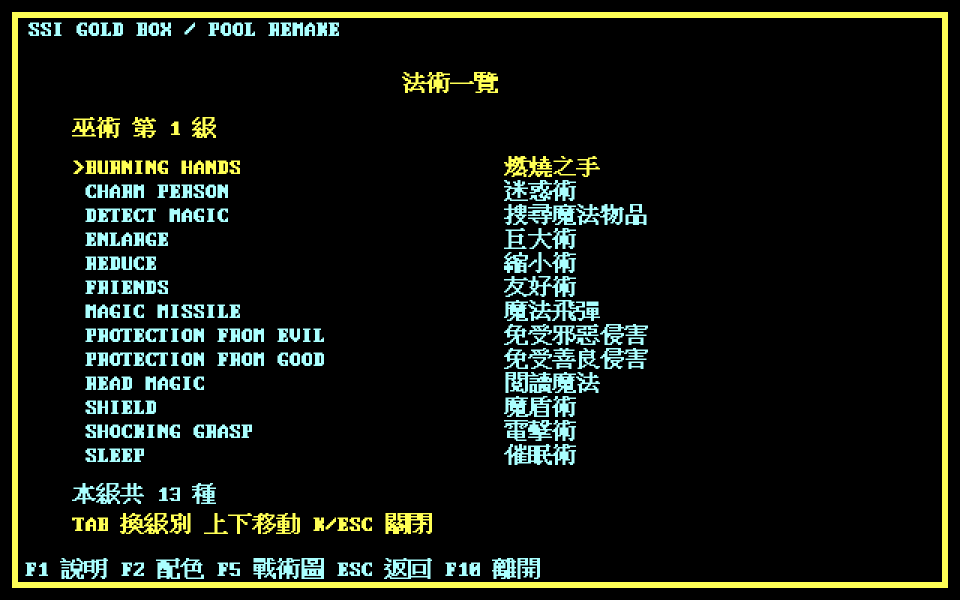
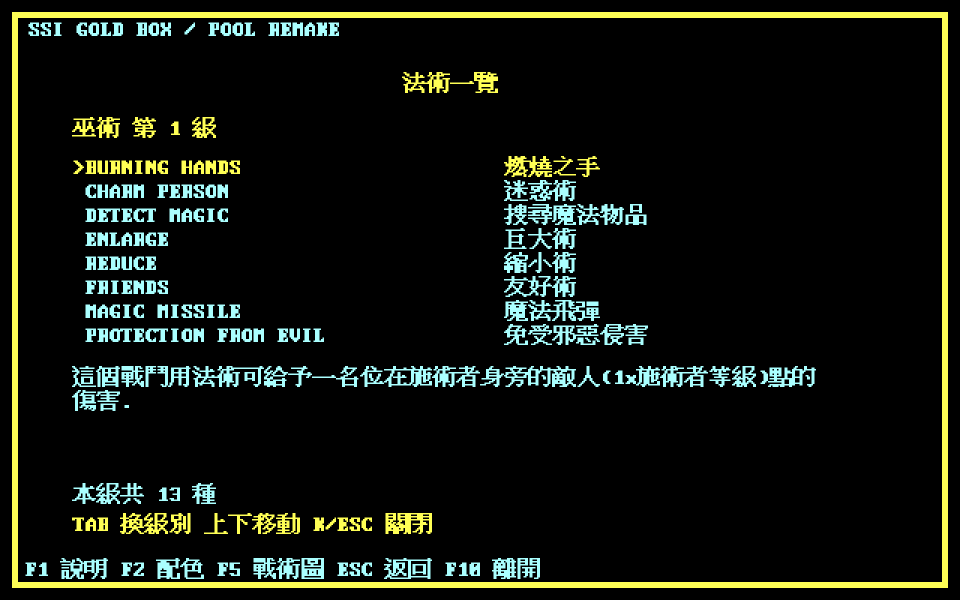
feat: show each spell's documented effect, and fix a hole in the font audit
56 條法術裡有 55 條接上了說明書下冊第六章的說明（逐條轉錄，含說明書自己的
〔原書如此〕註記）。`Restoration` 沒有——它不在法術章，那是神殿服務。
少一條就失敗即關閉：漏掉一條在畫面上看起來只是「這個法術沒寫」。

那是**說明書寫的行為**，不是從反組譯讀出來的規則，程式碼與規格都這樣標著；
接進戰鬥判定之前每一條仍要以原版程式碼驗證。遊戲裡按 K，游標所在那一條的
說明顯示在清單下方。

**順手補掉字型稽核的一個洞。** 「燃燒之手」的說明裡有 `×`，畫面上是一個實心
方塊，但稽核報 0 缺字——因為它的判準是「取不取得到字模格」，而 ETen 的
ASCFONT 對任何 <= 0xFF 的碼位都取得到格子。兩件事一起修：

- 稽核改判「畫出來有沒有東西」，順便排除本來就該空白的空白字元；
- `etenASCIICode` 的身分對應收窄到 0x00..0x7F。ASCFONT 的高半部不是
  Latin-1——那半段在 Big5 是前導位元組，格子畫出來是方塊或雜訊，
  而「畫出方塊」在畫面上與缺字沒有分別。高半部一律走別名表，
  另外把 `×` `÷` `·` `°` `±` 併進去。

Changed region(s): [[0.0625, 0.57, 0.8438, 0.78]]

diff --git a/internal/gamepack/spell_table.go b/internal/gamepack/spell_table.go
@@ -47,13 +47,20 @@ type Spell struct {
 	Text  string     `json:"text"`
 	Class SpellClass `json:"class"`
 	Level int        `json:"level"`
+	// Effect 是說明書下冊第六章對這個法術的說明，逐條轉錄。
+	// 它是**說明書寫的行為**，不是從反組譯讀出來的規則；接進戰鬥判定之前
+	// 仍要逐條以原版程式碼驗證。
+	Effect string `json:"effect,omitempty"`
+	// ManualNote 保留說明書自己的〔原書如此〕註記。
+	ManualNote string `json:"manual_note,omitempty"`
 }
 
 type spellFile struct {
-	Schema  string  `json:"schema"`
-	Locale  string  `json:"locale"`
-	Source  string  `json:"source"`
-	Entries []Spell `json:"entries"`
+	Schema       string  `json:"schema"`
+	Locale       string  `json:"locale"`
+	Source       string  `json:"source"`
+	EffectSource string  `json:"effect_source"`
+	Entries      []Spell `json:"entries"`
 }
 
 // SpellCatalogue 是內建的法術表：遊戲自己的名稱順序，配上說明書的中譯。
@@ -68,8 +75,8 @@ func ParseSpellCatalogue(raw []byte) (*SpellCatalogue, error) {
 	if err := json.Unmarshal(raw, &decoded); err != nil {
 		return nil, fmt.Errorf("Pool spell catalogue: %w", err)
 	}
-	if decoded.Schema != "pool-spell-names/1" {
-		return nil, fmt.Errorf("Pool spell catalogue schema %q is not pool-spell-names/1", decoded.Schema)
+	if decoded.Schema != "pool-spell-names/2" {
+		return nil, fmt.Errorf("Pool spell catalogue schema %q is not pool-spell-names/2", decoded.Schema)
 	}
 	if len(decoded.Entries) != SpellNameCount {
 		return nil, fmt.Errorf("Pool spell catalogue has %d entries, the original table has %d",
@@ -87,6 +94,12 @@ func ParseSpellCatalogue(raw []byte) (*SpellCatalogue, error) {
 		}
 		if entry.Level < 1 || entry.Level > 3 {
 			return nil, fmt.Errorf("Pool spell %d has level %d outside 1..3", position, entry.Level)
+		}
+		// Restoration 不在說明書的法術章（它是神殿服務，見 spec 068），
+		// 其餘每一條都要有說明——少了就是轉錄漏了一條，而畫面上看起來
+		// 只是「這個法術沒寫」。
+		if entry.Effect == "" && entry.Name != "Restoration" {
+			return nil, fmt.Errorf("Pool spell %q has no manual description", entry.Name)
 		}
 	}
 	return &SpellCatalogue{locale: decoded.Locale, entries: decoded.Entries}, nil

diff --git a/cmd/pool-game/spells.go b/cmd/pool-game/spells.go
@@ -17,7 +17,8 @@ const (
 	spellTextLeft   = 48
 	spellFirstLine  = 118
 	spellLineHeight = 16
-	spellLineCount  = 13
+	spellLineCount  = 8
+	spellColumns    = 64
 )
 
 // spellGroups 是六個分頁，順序照原版表的分組。
@@ -92,14 +93,39 @@ func drawSpells(screen *ebiten.Image, a *app, background, foreground, accent col
 		spellTextLeft, 92, accent)
 
 	group := state.current()
-	for offset := 0; offset < spellLineCount && offset < len(group); offset++ {
-		spell := group[offset]
+	// 一頁放不下十三條，捲動時讓游標留在畫面內。
+	first := state.cursor - spellLineCount/2
+	if first < 0 {
+		first = 0
+	}
+	if first+spellLineCount > len(group) {
+		first = len(group) - spellLineCount
+	}
+	if first < 0 {
+		first = 0
+	}
+	for offset := 0; offset < spellLineCount && first+offset < len(group); offset++ {
+		spell := group[first+offset]
 		cursor, ink := " ", foreground
-		if offset == state.cursor {
+		if first+offset == state.cursor {
 			cursor, ink = ">", accent
 		}
 		drawText(screen, fmt.Sprintf("%s%-34s %s", cursor, spell.Name, spell.Text),
 			spellTextLeft, spellFirstLine+offset*spellLineHeight, ink)
+	}
+
+	// 說明來自說明書下冊第六章，是「說明書寫的行為」，不是反組譯出來的規則。
+	if state.cursor < len(group) {
+		effect := group[state.cursor].Effect
+		if effect == "" {
+			effect = a.text(msgSpellsNoEffect)
+		}
+		for index, line := range wrapDisplay(effect, spellColumns) {
+			if index >= 4 {
+				break
+			}
+			drawText(screen, line, spellTextLeft, 258+index*spellLineHeight, foreground)
+		}
 	}
 	drawText(screen, fmt.Sprintf(a.text(msgSpellsCount), len(group)), spellTextLeft, 336, foreground)
 	drawText(screen, a.text(msgSpellsFooter), spellTextLeft, 356, accent)

diff --git a/internal/gamepack/spell_table_test.go b/internal/gamepack/spell_table_test.go
@@ -94,3 +94,48 @@ func TestParseSpellCatalogueRejectsAShortTable(t *testing.T) {
 		t.Fatal("a foreign schema was accepted")
 	}
 }
+
+// 除了 Restoration，56 條都要有說明書的說明。少一條就是轉錄漏了，
+// 而畫面上看起來只是「這個法術沒寫」。
+func TestEverySpellCarriesTheManualDescription(t *testing.T) {
+	catalogue, err := gamepack.TraditionalChineseSpells()
+	if err != nil {
+		t.Fatal(err)
+	}
+	missing := 0
+	for _, spell := range catalogue.Spells() {
+		if spell.Effect != "" {
+			continue
+		}
+		if spell.Name != "Restoration" {
+			t.Fatalf("%q has no manual description", spell.Name)
+		}
+		missing++
+	}
+	if missing != 1 {
+		t.Fatalf("%d spells lack a description; only Restoration should", missing)
+	}
+}
+
+// 說明書自己的〔原書如此〕註記要跟著條目走：比對法術名時要以遊戲的拼法
+// 為準，說明書那六個拼錯的字不能反過來當標準。
+func TestManualTyposAreRecordedAgainstTheGameSpelling(t *testing.T) {
+	catalogue, err := gamepack.TraditionalChineseSpells()
+	if err != nil {
+		t.Fatal(err)
+	}
+	notes := map[string]bool{}
+	for _, spell := range catalogue.Spells() {
+		if spell.ManualNote != "" {
+			notes[spell.Name] = true
+		}
+	}
+	for _, name := range []string{
+		"Spiritual Hammer", "Ray of Enfeeblement", "Bestow Curse",
+		"Lightning Bolt", "Stinking Cloud", "Protection From Normal Missiles",
+	} {
+		if !notes[name] {
+			t.Fatalf("%q lost the manual's original-spelling note", name)
+		}
+	}
+}

diff --git a/cmd/pool-font-coverage/main.go b/cmd/pool-font-coverage/main.go
@@ -12,6 +12,7 @@ import (
 	"flag"
 	"fmt"
 	"go/ast"
+	"image"
 	"go/parser"
 	"go/token"
 	"os"
@@ -52,13 +53,18 @@ func main() {
 	note := func(text, label string) {
 		// 與畫面走同一條替換：稽核的是「實際會畫出來的字」。
 		for _, r := range etenfont.ReplaceUnavailable(text) {
+			// 空白字元本來就該是空的。
+			if r == ' ' || r == '\t' || r == '\u3000' {
+				continue
+			}
 			if r == '\n' {
 				continue
 			}
-			if _, ok := face.GlyphAdvance(r); ok {
-				if _, drawable := face.Bitmap(r); drawable {
-					continue
-				}
+			// 判準是「畫出來有東西」，不是「取得到字模格」。
+			// ASCII 那條路對任何 <= 0xFF 的碼位都取得到格子，但格子可能整片空白
+			// ——那在畫面上與缺字沒有分別，而只看 ok 會把它漏掉。
+			if mask, drawable := face.Bitmap(r); drawable && !blank(mask) {
+				continue
 			}
 			counts[r]++
 			if where[r] == "" {
@@ -149,6 +155,19 @@ func noteSourceStrings(note func(text, label string)) error {
 		})
 		return nil
 	})
+}
+
+// blank 判斷字模是不是整片空白。空白字元本來就該是空的，不算缺字。
+func blank(mask *image.Alpha) bool {
+	if mask == nil {
+		return true
+	}
+	for _, value := range mask.Pix {
+		if value != 0 {
+			return false
+		}
+	}
+	return true
 }
 
 func sum(counts map[rune]int) int {

diff --git a/internal/etenfont/face.go b/internal/etenfont/face.go
@@ -276,7 +276,10 @@ func (f *Face) asciiGlyph(r rune) ([]byte, bool) {
 // typographic aliases; translation text remains data-driven and no game term
 // is encoded here.
 func etenASCIICode(r rune) (byte, bool) {
-	if r >= 0 && r <= 0xff {
+	// 只有 ASCII 那半段對得上。ETen 的 ASCFONT 高半部不是 Latin-1——
+	// 0x80..0xFF 在 Big5 是前導位元組，那些格子畫出來是方塊或雜訊，
+	// 而「畫出方塊」在畫面上與缺字沒有分別。所以高半部一律走別名表。
+	if r >= 0 && r <= 0x7f {
 		return byte(r), true
 	}
 	aliases := map[rune]byte{
@@ -288,6 +291,7 @@ func etenASCIICode(r rune) (byte, bool) {
 		'《': '<', '》': '>', '【': '[', '】': ']', '〔': '[', '〕': ']',
 		'～': '~', '〜': '~',
 		'\u2018': '\'', '\u2019': '\'', '\u201c': '"', '\u201d': '"',
+		'×': 'x', '÷': '/', '·': '.', '°': 'o', '±': '+',
 	}
 	value, ok := aliases[r]
 	return value, ok

diff --git a/cmd/pool-game/text.go b/cmd/pool-game/text.go
@@ -45,6 +45,7 @@ var messages = map[messageID][2]string{
 	msgSpellsMagicUser: {"Magic User", "巫術"},
 	msgSpellsCount:     {"%d spells in this group", "本級共 %d 種"},
 	msgSpellsFooter:    {"TAB next group  UP/DOWN choose  K/ESC close", "TAB 換級別　上下移動　K／ESC 關閉"},
+	msgSpellsNoEffect:  {"The manual's spell chapter does not describe this one.", "說明書的法術章沒有收這一條。"},
 	msgShopTitle:      {"SHOP", "商店"},
 	msgShopStatus:     {"Original Pool shop service: %d item(s) in stock.", "原版商店服務：架上 %d 件。"},
 	msgShopBuyer:      {"Buyer %d/%d  %s  gold %d", "買家 %d/%d　%s　金幣 %d"},
@@ -395,6 +396,7 @@ const (
 	msgSpellsMagicUser
 	msgSpellsCount
 	msgSpellsFooter
+	msgSpellsNoEffect
 )
 
 // 商店畫面的字串。

diff --git a/docs/spec/068-spell-name-table.md b/docs/spec/068-spell-name-table.md
@@ -61,9 +61,19 @@ overlay-22 以 `2883h + id × 41` 取名，而 `2883h + 41 = 28ACh` 就是第一
 而那看起來像翻譯問題，不像資料錯位。另有測試固定六個分組的筆數與首末，
 以及「同一職業同一等級之內中譯不重名」。
 
+## 每一條的效果說明
+
+56 條裡有 55 條帶著說明書下冊第六章的說明（逐條轉錄，含說明書自己的
+〔原書如此〕註記）。`Restoration` 沒有——它不在法術章，那是神殿服務。
+少一條就失敗即關閉：漏掉一條在畫面上看起來只是「這個法術沒寫」。
+
+⚠ 那是**說明書寫的行為**，不是從反組譯讀出來的規則。接進戰鬥判定之前，
+每一條仍要以原版程式碼驗證；目前只作為玩家可讀的參考。
+
 ## 玩家路徑
 
-遊戲裡按 `K` 開法術一覽，`TAB` 換級別。**這是查閱用的畫面，不是施法**：
+遊戲裡按 `K` 開法術一覽，`TAB` 換級別，游標所在那一條的說明顯示在清單下方。
+**這是查閱用的畫面，不是施法**：
 記憶與施展還沒接，畫面上也不假裝接好了。原版的法術書畫面另有版面
 （說明書 p.51 有圖），等反組譯讀到再做。
 
